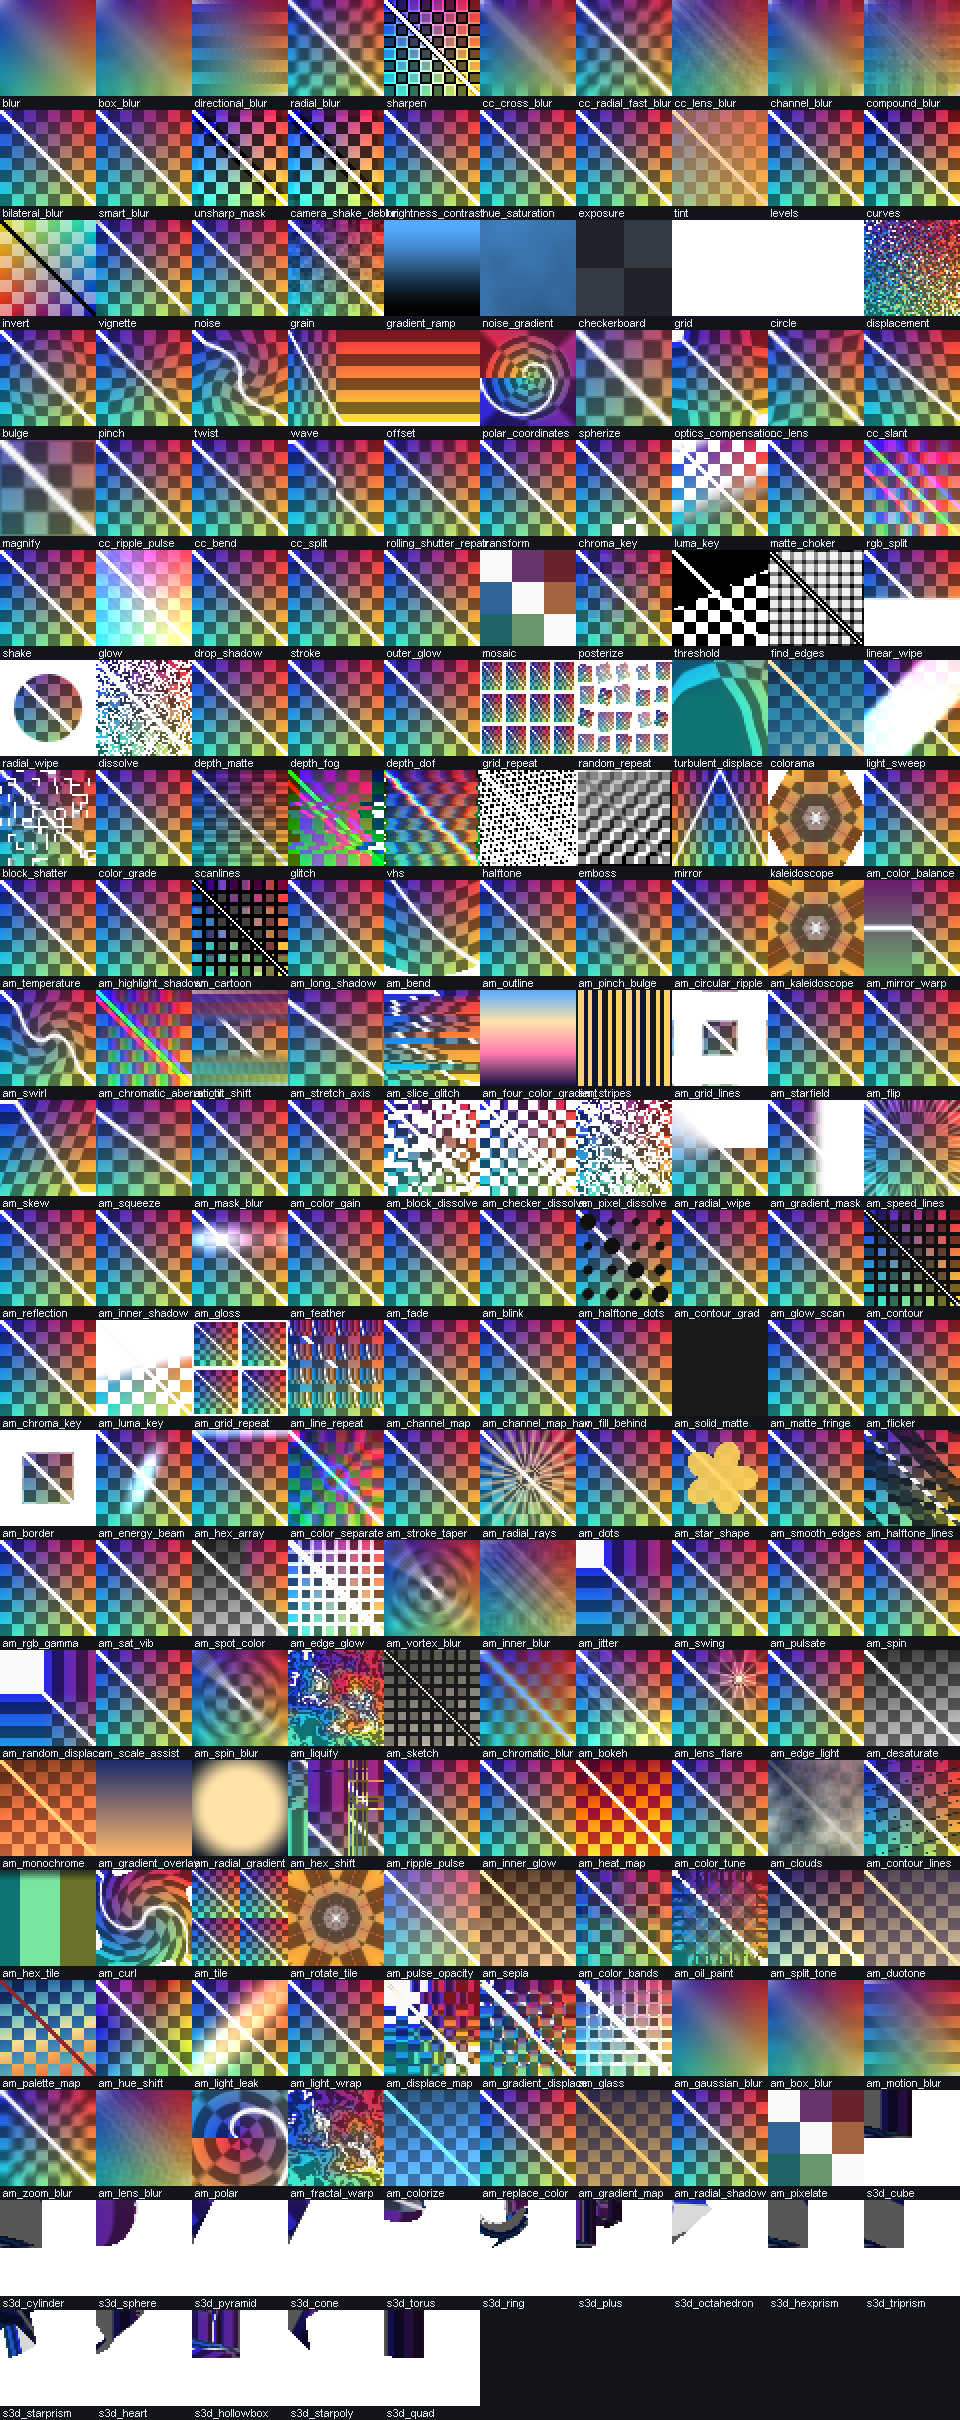
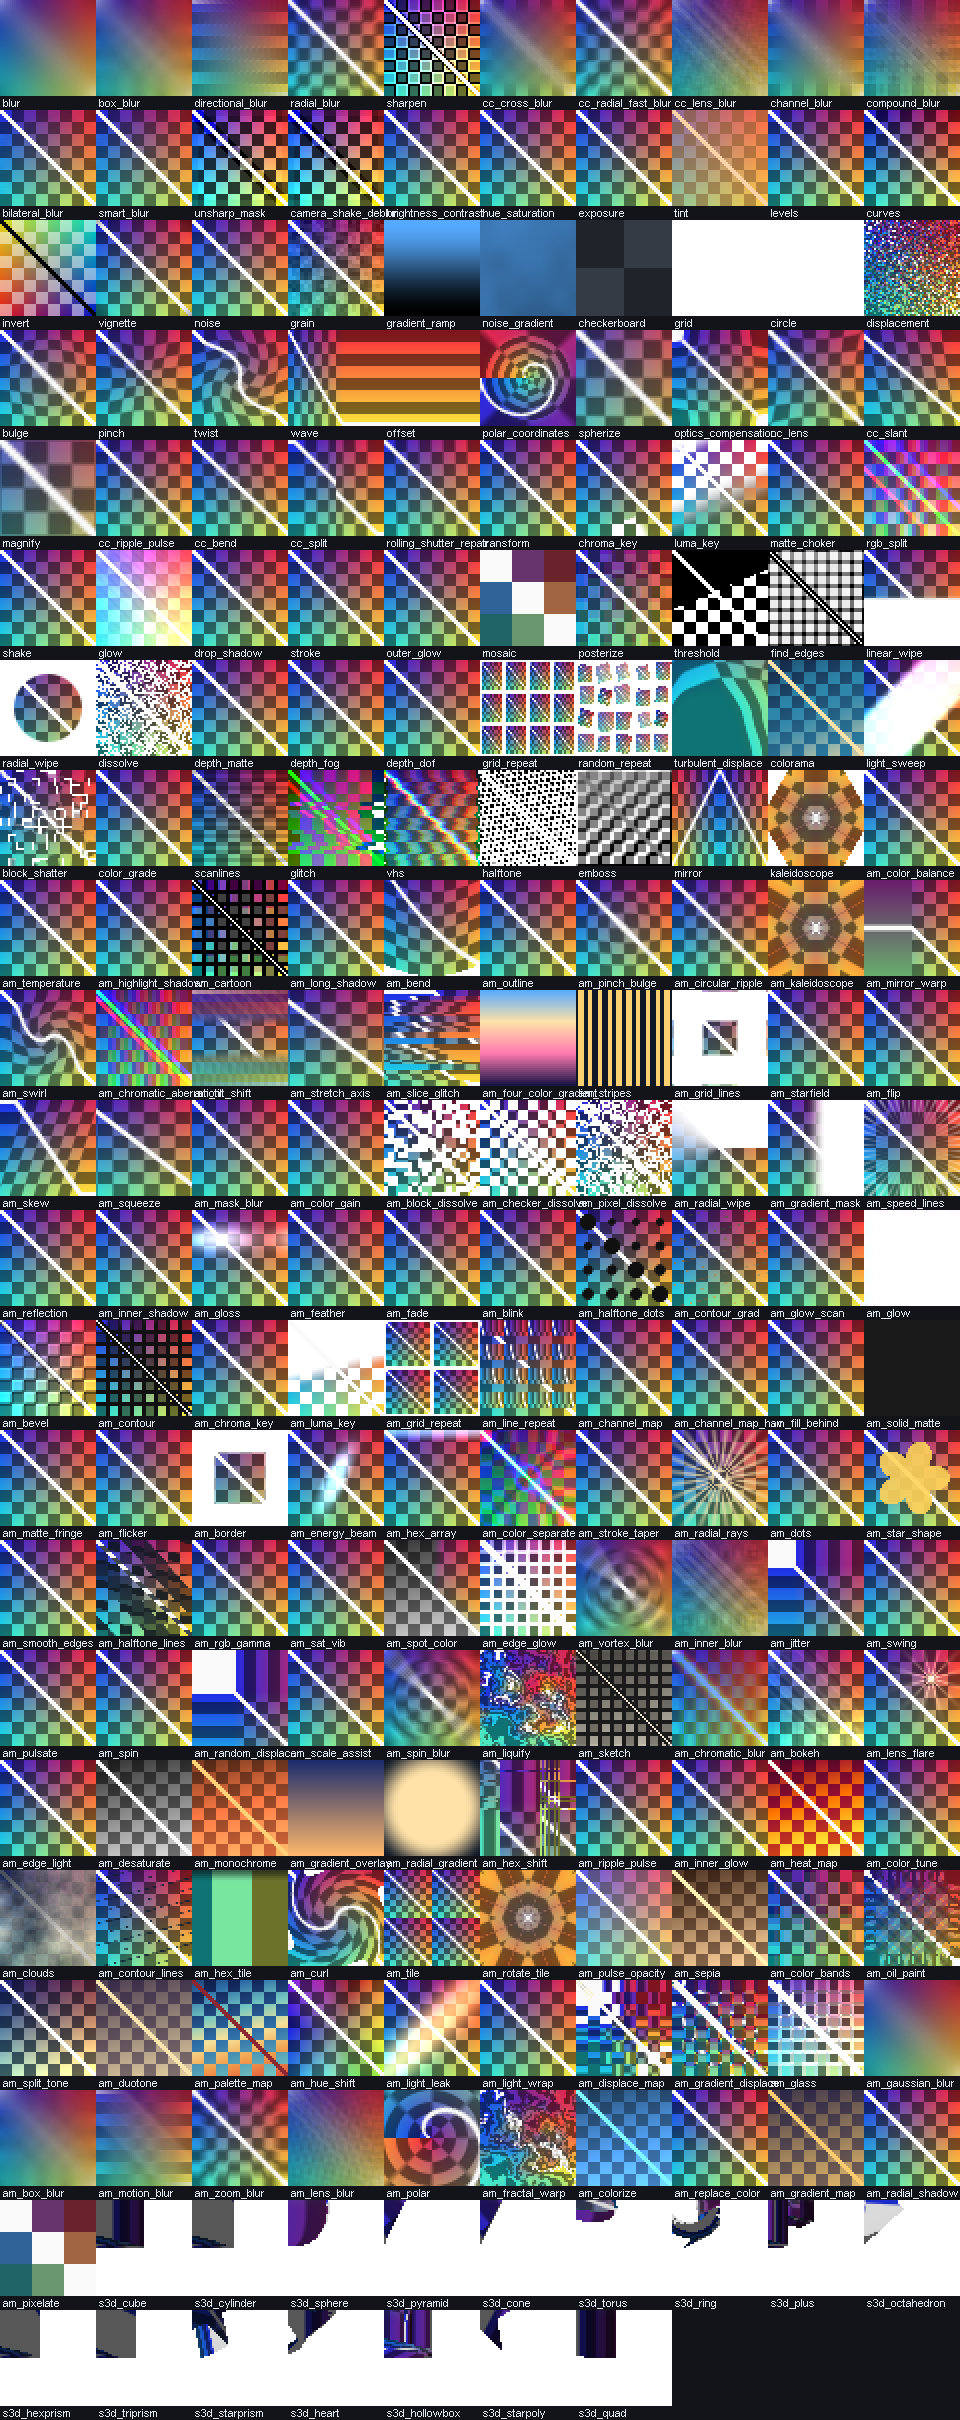
feat(0.65): zero-restore verified in the real renderer + glow/bevel effects
- New bbsaeView=zerotest scenario renders shatter at 0 (clean rectangle), shatter at 0.35 (broken)
  and a stacked-effect 3D cube in one frame. docs/verify/round38-zerotest.png is direct pixel
  evidence that the user-reported "shatter at 0 must restore a square" contract holds in the real
  composition renderer.
- New effects: 发光 (AM · 风格化, alpha halo) and 平滑斜面 (AM · 绘制, luminance bevel), both with
  zero identities covered by the forced-shader audits.
- 137 effects total (122 2D + 15 3D); 338 tests green. Release bbsae-0.65.jar
  (SHA-256 54C9AB32A6E2093050DDC99986FCA9DE48A34AE0F6CA49324DD35B3A54B0B07C).

Changed region(s): [[0.0, 0.4959, 1.0, 1.0], [0.3438, 0.9917, 0.375, 1.0]]

diff --git a/src/main/java/dev/bbsae/client/ui/UICompositorPanel.java b/src/main/java/dev/bbsae/client/ui/UICompositorPanel.java
@@ -7462,6 +7462,10 @@ public class UICompositorPanel extends UIDashboardPanel
                  * (filter dropdown, debug shots) without opening the curve editor. */
                 break;
 
+            case "zerotest":
+                this.debugZeroTest();
+                return;
+
             case "cubetest":
                 this.debugCubeTest();
                 return;
@@ -7905,6 +7909,109 @@ public class UICompositorPanel extends UIDashboardPanel
      * Verification only: one 3D layer with a mesh effect, nothing else. This isolates whether the
      * projected mesh output is composited at all, without relying on layer visibility flags.
      */
+    /**
+     * Verification only: the user's "2D shatter at zero must restore a normal square" contract,
+     * next to a broken shatter for comparison and a stacked 3D primitive.
+     */
+    public void debugZeroTest()
+    {
+        this.project = CompStore.demo("zero-test");
+        this.doc = this.project.getComp(CompStore.DEFAULT_COMP);
+        this.doc.width = 1280;
+        this.doc.height = 720;
+        this.doc.layers.clear();
+
+        CompLayer restored = new CompLayer("zero_restored", "Shatter 0", "shape");
+
+        restored.x = 300F;
+        restored.y = 360F;
+        restored.width = 320F;
+        restored.height = 220F;
+        restored.shapes.add(CompShape.rect("zero_shape", 0F, 0F, 320F, 220F, 0xFFFFFFFF));
+        CompEffect restoredGradient = CompEffectRegistry.create("gradient_ramp", 1);
+
+        restoredGradient.putColor("start", 0xFF7C3AED);
+        restoredGradient.putColor("end", 0xFF06B6D4);
+        restoredGradient.put("angle", 45D);
+        restored.effects.add(restoredGradient);
+        CompEffect shatterZero = CompEffectRegistry.create("block_shatter", 1);
+
+        shatterZero.put("progress", 0.0);
+        restored.effects.add(shatterZero);
+        this.doc.layers.add(restored);
+
+        CompLayer broken = new CompLayer("zero_broken", "Shatter 0.35", "shape");
+
+        broken.x = 640F;
+        broken.y = 360F;
+        broken.width = 320F;
+        broken.height = 220F;
+        broken.shapes.add(CompShape.rect("broken_shape", 0F, 0F, 320F, 220F, 0xFFFFFFFF));
+        CompEffect brokenGradient = CompEffectRegistry.create("gradient_ramp", 1);
+
+        brokenGradient.putColor("start", 0xFF7C3AED);
+        brokenGradient.putColor("end", 0xFF06B6D4);
+        brokenGradient.put("angle", 45D);
+        broken.effects.add(brokenGradient);
+        CompEffect shatterBroken = CompEffectRegistry.create("block_shatter", 1);
+
+        shatterBroken.put("progress", 0.35);
+        broken.effects.add(shatterBroken);
+        this.doc.layers.add(broken);
+
+        CompLayer stack = new CompLayer("zero_stack", "3D stacked", "shape");
+
+        stack.x = 980F;
+        stack.y = 360F;
+        stack.width = 280F;
+        stack.height = 180F;
+        stack.threeD = true;
+        stack.z = 120F;
+        stack.rotationY = 24F;
+        stack.rotationX = -12F;
+        stack.shapes.add(CompShape.rect("stack_shape", 0F, 0F, 280F, 180F, 0xFFFFFFFF));
+        CompEffect stackGradient = CompEffectRegistry.create("gradient_ramp", 1);
+
+        stackGradient.putColor("start", 0xFFF97316);
+        stackGradient.putColor("end", 0xFF06B6D4);
+        stackGradient.put("angle", 45D);
+        stack.effects.add(stackGradient);
+        stack.effects.add(CompEffectRegistry.create("s3d_cube", 1));
+        this.doc.layers.add(stack);
+
+        CompLayer camera = new CompLayer("camera_3d", "3D Camera", "camera");
+
+        camera.width = 100F;
+        camera.height = 100F;
+        camera.threeD = true;
+        camera.camera3D = true;
+        camera.z = this.defaultCameraZ();
+        camera.cameraZ = camera.z;
+        camera.cameraTargetX = this.doc.width / 2F;
+        camera.cameraTargetY = this.doc.height / 2F;
+        camera.cameraTargetZ = 0F;
+        this.doc.layers.add(camera);
+        this.doc.activeCameraId = camera.id;
+        this.selectedLayer = restored;
+        this.selectedIds.clear();
+        this.selectedIds.add(restored.id);
+        this.time = 2F;
+        this.startScreenOpen = false;
+
+        if (this.startScreen != null)
+        {
+            this.startScreen.setVisible(false);
+        }
+
+        this.inspectorPage = PAGE_EFFECTS;
+        dev.bbsae.client.overlay.BbsPreviewBridge.updateDocument(this.doc);
+        this.refreshLayers();
+        this.refreshInspector();
+        this.refreshSheets();
+        this.trackTimeline.fit();
+        this.updatePlayLabel();
+    }
+
     public void debugCubeTest()
     {
         this.project = CompStore.demo("cube-test");

diff --git a/src/main/java/dev/bbsae/comp/AmEffectLibrary.java b/src/main/java/dev/bbsae/comp/AmEffectLibrary.java
@@ -902,6 +902,49 @@ public final class AmEffectLibrary
             .p("intensity", "强度", 0F, 4F, 1.2F, 0.01F)
             .c("color", "光带颜色", 0xFFB0E4FF));
 
+        add(new AmEffectDef("am_glow", "发光", "AM · 风格化", """
+            void main()
+            {
+                vec2 luv = layerUv(vUv);
+                vec4 c = sampleLayer(luv);
+                float halo = 0.0;
+
+                for (int i = 0; i < 16; i++)
+                {
+                    float a = float(i) * 0.3926991;
+                    float r = u_radius / max(LayerSize.x, 1.0);
+                    halo += sampleLayer(luv + vec2(cos(a), sin(a)) * r).a;
+                }
+
+                halo = clamp(halo / 16.0 * 1.8, 0.0, 1.0);
+                float intensity = clamp(u_intensity, 0.0, 3.0);
+                vec3 rgb = clamp(c.rgb + u_color.rgb * halo * intensity, 0.0, 1.0);
+                float alpha = clamp(max(c.a, halo * intensity * 0.7), 0.0, 1.0);
+                fragColor = vec4(rgb, alpha);
+            }
+            """, 0F, "intensity")
+            .p("radius", "半径（像素）", 0F, 80F, 12F, 1F)
+            .p("intensity", "强度", 0F, 3F, 0.9F, 0.01F)
+            .c("color", "光晕颜色", 0xFFFFFFFF));
+
+        add(new AmEffectDef("am_bevel", "平滑斜面", "AM · 绘制", """
+            void main()
+            {
+                vec2 luv = layerUv(vUv);
+                vec4 c = sampleLayer(luv);
+                float left = luma(sampleLayer(luv - vec2(LayerTexel.x, 0.0)).rgb);
+                float right = luma(sampleLayer(luv + vec2(LayerTexel.x, 0.0)).rgb);
+                float up = luma(sampleLayer(luv - vec2(0.0, LayerTexel.y)).rgb);
+                float down = luma(sampleLayer(luv + vec2(0.0, LayerTexel.y)).rgb);
+                vec3 normal = normalize(vec3(left - right, up - down, 0.6));
+                float shade = clamp(dot(normal, normalize(vec3(-0.4, -0.6, 0.7))), 0.0, 1.0);
+                float strength = clamp(u_strength, 0.0, 2.0);
+                vec3 rgb = clamp(c.rgb * mix(1.0, shade * 1.6 + 0.2, strength), 0.0, 1.0);
+                fragColor = vec4(rgb, c.a);
+            }
+            """, 0F, "strength")
+            .p("strength", "强度", 0F, 2F, 0.8F, 0.01F));
+
         add(new AmEffectDef("am_contour", "轮廓线", "AM · 绘制", """
             void main()
             {

diff --git a/src/test/java/dev/bbsae/comp/AmEffectLibraryTest.java b/src/test/java/dev/bbsae/comp/AmEffectLibraryTest.java
@@ -168,6 +168,8 @@ public class AmEffectLibraryTest
         assertNeutral("am_grid_repeat", "amount", 0F);
         assertNeutral("am_line_repeat", "amount", 0F);
         assertNeutral("am_contour", "alpha", 0F);
+        assertNeutral("am_glow", "intensity", 0F);
+        assertNeutral("am_bevel", "strength", 0F);
         assertNeutral("am_reflection", "strength", 0F);
         assertNeutral("am_inner_shadow", "opacity", 0F);
         assertNeutral("am_gloss", "intensity", 0F);

diff --git a/README.md b/README.md
@@ -110,15 +110,15 @@ export** without touching the `.dat` film format.
 
 ## Download / Install
 
-1. Download [`bbsae-0.64.jar`](https://github.com/zhongend/bbsae/releases/download/v0.64/bbsae-0.64.jar)
-   from the **v0.64** release (the asset is updated with each source push).
+1. Download [`bbsae-0.65.jar`](https://github.com/zhongend/bbsae/releases/download/v0.65/bbsae-0.65.jar)
+   from the **v0.65** release (the asset is updated with each source push).
 2. Install **Minecraft 1.20.1**, **Fabric Loader 0.16.14+**, **Fabric API 0.92.1+1.20.1** and
    **BBS FS 2.7-1.20.1**.
-3. Put `bbsae-0.64.jar` and the BBS FS jar into the game's `mods/` folder.
+3. Put `bbsae-0.65.jar` and the BBS FS jar into the game's `mods/` folder.
 4. Launch the game, open a film in BBS, select a replay, then use
    **Replay properties → Compositor → Open Film Compositor**.
 
[2 lines of base64/hex data omitted]
 
 ## Gallery
 
@@ -185,6 +185,16 @@ The compositor does not re-encode films or patch `.dat` files. BBS serializes a 
 `RegisterFrameOverlaysEvent` point. That means the same composition appears in BBS's preview and in
 its FFmpeg film export, and BBS keeps ownership of keyframes, undo, project storage and video
 encoding.
+
+## What's new in 0.65 — zero-restore verified in the real renderer
+
+- New `bbsaeView=zerotest` scenario renders three cases in one frame: shatter at **0** (must be a
+  clean rectangle), shatter at **0.35** (must be broken) and a 3D cube with stacked effects.
+  `docs/verify/round38-zerotest.png` shows exactly that — the user-reported "shatter at 0 cannot
+  restore a square" contract now has pixel evidence from the real composition renderer.
+- New effects: **发光** (`AM · 风格化`, alpha halo) and **平滑斜面** (`AM · 绘制`, luminance bevel),
+  both with zero identities covered by the forced-shader audits.
+- 137 effects total (122 2D + 15 3D); 338 tests green.
 
 ## What's new in 0.64 — zero-set audits and contour lines
 

diff --git a/docs/EFFECT-LIBRARY-PLAN.zh.md b/docs/EFFECT-LIBRARY-PLAN.zh.md
@@ -1,6 +1,6 @@
 # 效果库对齐计划（AM 效果体系）
 
-> 进度：135 个效果（120 个 2D 复刻 + 15 个 3D 图元），3D 图元由网格渲染管线绘制。
+> 进度：137 个效果（122 个 2D 复刻 + 15 个 3D 图元），3D 图元由网格渲染管线绘制。
 
 目标：把「混合模式」「效果库」「参数语义」「图标」四项做到与 Alight Motion 的使用体验一致，
 并按第一性原理保证 **每个参数拉到 0 都是原样**（少数天然无零点的效果除外，见第 4 节）。
@@ -179,6 +179,13 @@ switch 中拆出来：
 4.24 **程序化/绘制批**（径向光线、点阵、星形、平滑边缘、半调线；已完成）
 4.25 **边框/光束/阵列批**（边框、能量束、六边形阵列、彩色分离、描边锥度；已完成）
 4.26 **通道/合成批**（通道映射、HSV 通道映射、填充背后、实色遮罩、遮罩边缘、闪烁；已完成）
+4.41 **零点契约真机验收 + 发光/斜面（0.65）**
+    - 新增 `bbsaeView=zerotest` 场景：同一帧里"破碎 0"（应还原为完整正方形）、"破碎 0.35"
+      （应碎开）、以及 3D 立方体 + 效果叠加。
+    - 成片 `docs/verify/round38-zerotest.png` 证明：零值确实是完整正方形，非零才碎开；
+      3D 图元与叠加链路也正常。
+    - 新增：发光（alpha 光晕）、平滑斜面（亮度梯度斜面）。
+
 4.40 **零点集合审计 + 轮廓线（0.64）**
     - `AmEffectDef.zeroKeys()` 只读访问器；新测试 `everyDeclaredZeroSetIsIdentityInsideTheShader`
       对"多个参数同时为零才是原图"的效果（色调九增益、高光/阴影）做强制着色器逐像素审计。
